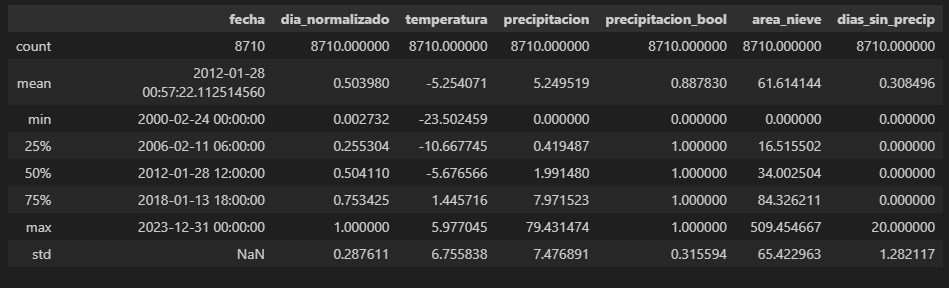
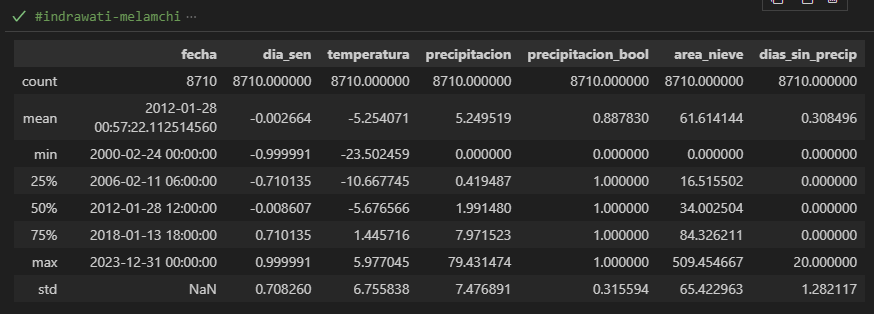
Actualizacion de los describe de cada cuenca en el readme.md

diff --git a/procesamiento_datos.py b/procesamiento_datos.py
@@ -2,20 +2,33 @@
 import pandas as pd
 
 #%%
-area_uc = pd.read_csv("E:/data/csv/areas/uncompahgre-ridgway.csv")
-variable_uc = pd.read_csv("E:/data/csv/series_agregadas/uncompahgre-ridgway.csv")
-
-area_ab = pd.read_csv("E:/data/csv/areas/adda-bornio.csv")
-variable_ab = pd.read_csv("E:/data/csv/series_agregadas/adda-bornio.csv")
-
+csv_path = "E:/data/csv/"
 cuencas = ['adda-bornio','genil-dilar','indrawati-melamchi','machopo-almendros','nenskra-Enguri','uncompahgre-ridgway']
-paths = {}
+
+area_ab = pd.read_csv(csv_path + "areas/" + cuencas[0] + ".csv")
+variable_ab = pd.read_csv(csv_path + "series_agregadas/" + cuencas[0] + ".csv")
+
+area_gd = pd.read_csv(csv_path + "areas/" + cuencas[1] + ".csv")
+variable_gd = pd.read_csv(csv_path + "series_agregadas/" + cuencas[1] + ".csv")
+
+area_im = pd.read_csv(csv_path + "areas/" + cuencas[2] + ".csv")
+variable_im = pd.read_csv(csv_path + "series_agregadas/" + cuencas[2] + ".csv")
+
+area_ma = pd.read_csv(csv_path + "areas/" + cuencas[3] + ".csv")
+variable_ma = pd.read_csv(csv_path + "series_agregadas/" + cuencas[3] + ".csv")
+
+area_ne = pd.read_csv(csv_path + "areas/" + cuencas[4] + ".csv")
+variable_ne = pd.read_csv(csv_path + "series_agregadas/" + cuencas[4] + ".csv")
+
+area_ur = pd.read_csv(csv_path + "areas/" + cuencas[5] + ".csv")
+variable_ur = pd.read_csv(csv_path + "series_agregadas/" + cuencas[5] + ".csv")
+
 
 #%%
 def procesar_cuenca(areas, series):
     df = pd.merge(series, areas, how='inner', left_on='fecha', right_on='fecha')
-    # columns = ['fecha','dia_sen','temperatura','precipitacion','precipitacion_bool','area_nieve']
-    # df.columns = columns
+    columns = ['fecha','dia_sen','temperatura','precipitacion','precipitacion_bool','area_nieve']
+    df.columns = columns
     df['fecha'] = pd.to_datetime(df["fecha"])
     # Calculo de dias transcurridos desde la última precipitacion
     df['dias_sin_precip'] = 0
@@ -31,7 +44,34 @@ def procesar_cuenca(areas, series):
 
     return df
 #%%
+#adda-bornio
 adda = procesar_cuenca(area_ab, variable_ab)
+adda.describe()
+
+#%%
+#genil-dilar
+genil = procesar_cuenca(area_gd, variable_gd)
+genil.describe()
+
+#%%
+#indrawati-melamchi
+indrawati = procesar_cuenca(area_im, variable_im)
+indrawati.describe()
+
+#%%
+# machopo-almendros
+machopo = procesar_cuenca(area_ma, variable_ma)
+machopo.describe()
+
+#%%
+#nenskra-enguri
+nenskra = procesar_cuenca(area_ne, variable_ne)
+nenskra.describe()
+
+#%%
+#uncompahgre-ridgway
+uncompahgre = procesar_cuenca(area_ur, variable_ur)
+uncompahgre.describe()
 
 #%%
 corr = adda.corr(numeric_only=True)

diff --git a/README.md b/README.md
@@ -88,27 +88,100 @@ Este es el resultado de juntar los dos dataframes creados anteriormente, sin emb
 Ahora exploraremos cada variable para ver como se comporta:
 # adda-bornio
 ![Estadisticas sobre Adda Bornio](img/addabornio-describe.png)
-* **dia_normalizado:** Esta columna, ya normalizada entre 0 y 1, tiene una media cercana a 0.5, lo que sugiere una distribución uniforme de los días a lo largo del periodo analizado para el modelo autoregresivo.
-* **temperatura:** La temperatura media diaria en la cuenca se sitúa en torno a los 12.34 grados Celsius, con un rango que va desde valores bajo cero (-6.33 °C) hasta máximos de casi 30 °C. La desviación estándar de 7.49 °C indica una variabilidad considerable en la temperatura diaria.
-* **precipitacion:** La precipitación media diaria es de aproximadamente 1.60 litros por metro cuadrado, con días sin lluvia (mínimo de 0) y días de lluvia intensa (máximo de 54.79 l/m²). La desviación estándar de 3.99 l/m² señala una alta variabilidad en la cantidad de precipitación.
-* **precipitacion_bool:** Esta variable binaria indica que llovió en aproximadamente el 44.13% de los días (media de 0.4413).
-* **area_nieve:** La superficie media cubierta por nieve es de unos 262.36 km², con una gran variabilidad (desviación estándar de 173.30 km²). Hay días sin nieve (mínimo de 0) y días con una extensa cobertura (máximo de 477.57 km²). El percentil 25% muestra una cobertura relativamente baja, mientras que el 75% indica una cobertura más significativa.
-* **dias_sin_precip:** De media, han transcurrido alrededor de 2.37 días desde la última precipitación. El valor máximo de 33 días sugiere periodos secos prolongados, mientras que el percentil 25% indica que en muchos casos no ha pasado ningún día desde la última lluvia.
+Este DataFrame contiene datos diarios para la cuenca "adda-bornio" a lo largo de varios años.
+
+- **dia_sen:** Variable temporal normalizada utilizando la función seno. El valor medio es cercano a cero (-0.0026), con un rango que abarca desde -0.9999 hasta 0.9999, indicando la representación cíclica del año. La desviación estándar (0.7082) sugiere una dispersión considerable a lo largo del ciclo anual.
+
+- **temperatura:** La temperatura media diaria presenta una media de 12.34 °C, con valores que oscilan entre un mínimo de -6.33 °C y un máximo de 29.82 °C. La desviación estándar de 7.49 °C indica una variabilidad significativa en la temperatura diaria.
+
+- **precipitacion:** La precipitación diaria tiene una media de 1.60 litros/m², con un valor mínimo de 0 y un máximo de 54.79 litros/m². La desviación estándar de 3.99 litros/m² muestra una alta variabilidad en la cantidad de precipitación.
+
+- **precipitacion_bool:** Variable binaria que indica la presencia (1) o ausencia (0) de precipitación. De media, llueve aproximadamente el 44% de los días.
+
+- **area_nieve:** El área cubierta por nieve tiene una media de 262.36 km², con un rango que va desde 0 km² hasta un máximo de 477.57 km². La desviación estándar de 173.30 km² revela una gran variabilidad en la extensión de la capa de nieve.
+
+- **dias_sin_precip:** El número de días transcurridos desde la última precipitación tiene una media de 2.37 días, con un máximo de 33 días sin lluvia registrada. La desviación estándar de 3.67 días indica una variabilidad en la frecuencia de las precipitaciones.
 
 # genil-dilar
 ![Estadisticas sobre Genil Dilar](img/genildilar-describe.png)
+Este DataFrame contiene datos diarios para la cuenca "genil-dilar" a lo largo de varios años.
+
+- **dia_sen:** Similar a otras cuencas, esta variable temporal normalizada con la función seno tiene una media cercana a cero (-0.0088) y un rango completo de -0.9999 a 0.9999. La desviación estándar es de 0.7076.
+
+- **temperatura:** La temperatura media diaria es de -0.79 °C, notablemente más baja que en la cuenca anterior. Los valores varían desde un mínimo extremo de -28.79 °C hasta un máximo de 16.91 °C. La desviación estándar de 8.48 °C indica una considerable variabilidad térmica.
+
+- **precipitacion:** La precipitación diaria tiene una media de 2.93 litros/m², con un máximo registrado de 77.47 litros/m². La desviación estándar es de 5.59 litros/m².
+
+- **precipitacion_bool:** La probabilidad de precipitación diaria es mayor en esta cuenca, con una media de 0.72, lo que indica que llueve aproximadamente el 72% de los días.
+
+- **area_nieve:** El área de nieve presenta una media de 50.80 km², significativamente menor que en la cuenca "adda-bornio". El área varía desde 0 km² hasta un máximo de 583.21 km². La desviación estándar es de 67.23 km².
+
+- **dias_sin_precip:** El promedio de días sin precipitación es bajo, de 0.81 días, con un máximo de 20 días consecutivos sin lluvia. La desviación estándar es de 1.98 días, lo que sugiere precipitaciones más frecuentes en comparación con la cuenca anterior.
+
 
 # indrawati-melamchi
 ![Estadisticas sobre Indrawati Melamchi](img/indrawatimelamchi-describe.png)
+Este DataFrame contiene datos diarios para la cuenca "indrawati-melamchi" a lo largo de varios años.
+
+- **dia_sen:** La variable temporal normalizada con la función seno tiene una media cercana a cero (-0.0027) y un rango completo de -0.9999 a 0.9999. La desviación estándar es de 0.7083.
+
+- **temperatura:** La temperatura media diaria es de -5.25 °C, similar a la cuenca "genil-dilar" y también más baja que la "adda-bornio". Los valores oscilan entre un mínimo de -23.50 °C y un máximo de 5.98 °C. La desviación estándar de 6.76 °C indica una variabilidad considerable.
+
+- **precipitacion:** La precipitación diaria presenta una media de 5.25 litros/m², con un máximo registrado de 79.43 litros/m². La desviación estándar es de 7.48 litros/m², mostrando una alta variabilidad.
+
+- **precipitacion_bool:** La presencia de precipitación es muy frecuente en esta cuenca, con una media de 0.89, lo que sugiere que llueve aproximadamente el 89% de los días.
+
+- **area_nieve:** El área cubierta por nieve tiene una media de 61.61 km², con un rango de 0 km² hasta un máximo de 509.45 km². La desviación estándar de 65.42 km² indica una variabilidad notable en la extensión de la nieve.
+
+- **dias_sin_precip:** El número de días sin precipitación es muy bajo, con una media de 0.31 días y un máximo de 20 días consecutivos sin lluvia. La desviación estándar de 1.28 días sugiere precipitaciones muy frecuentes.
 
 # machopo-almendros
 ![Estadisticas sobre Machopo Almendros](img/machopoalmendros-describe.png)
+Este DataFrame contiene datos diarios para la cuenca "machopo-almendros" a lo largo de varios años.
+
+- **dia_sen:** La variable temporal normalizada con la función seno presenta una media cercana a cero (-0.0027) y un rango completo de -0.9999 a 0.9999. La desviación estándar es de 0.7084.
+
+- **temperatura:** La temperatura media diaria es de 4.00 °C, ubicándose entre las temperaturas medias de las cuencas anteriores. Los valores varían desde un mínimo de -16.60 °C hasta un máximo de 17.78 °C. La desviación estándar de 6.28 °C indica una variabilidad térmica considerable.
+
+- **precipitacion:** La precipitación diaria tiene una media de 2.45 litros/m², con un máximo registrado de 94.46 litros/m². La desviación estándar es de 6.53 litros/m², mostrando una alta variabilidad.
+
+- **precipitacion_bool:** La probabilidad de precipitación diaria es de aproximadamente el 59%, con una media de 0.59.
+
+- **area_nieve:** El área cubierta por nieve tiene una media de 167.51 km², con un rango que va desde 0 km² hasta un máximo de 635.69 km². La desviación estándar de 179.31 km² revela una gran variabilidad en la extensión de la capa de nieve.
+
+- **dias_sin_precip:** El promedio de días sin precipitación es de 1.40 días, con un máximo de 24 días consecutivos sin lluvia. La desviación estándar es de 2.61 días.
 
 # nenskra-enguri
 ![Estadisticas sobre Nenskra Enguri](img/nenskraenguri-describe.png)
+Este DataFrame contiene datos diarios para la cuenca "nenskra-enguri" a lo largo de varios años.
+
+- **dia_sen:** La variable temporal normalizada con la función seno tiene una media cercana a cero (-0.0030) y un rango completo de -0.9999 a 0.9999. La desviación estándar es de 0.7082.
+
+- **temperatura:** La temperatura media diaria es de 2.45 °C, similar a la cuenca "machopo-almendros". Los valores oscilan entre un mínimo de -21.34 °C y un máximo de 22.05 °C. La desviación estándar de 8.90 °C indica una variabilidad térmica considerable.
+
+- **precipitacion:** La precipitación diaria presenta una media de 4.45 litros/m², con un máximo registrado de 63.71 litros/m². La desviación estándar es de 6.91 litros/m², mostrando una alta variabilidad.
+
+- **precipitacion_bool:** La presencia de precipitación es frecuente en esta cuenca, con una media de 0.76, lo que sugiere que llueve aproximadamente el 76% de los días.
+
+- **area_nieve:** El área cubierta por nieve tiene una media de 320.70 km², con un rango de 0 km² hasta un máximo de 628.06 km². La desviación estándar de 224.81 km² revela una gran variabilidad en la extensión de la capa de nieve.
+
+- **dias_sin_precip:** El número de días sin precipitación es bajo, con una media de 0.63 días y un máximo de 20 días consecutivos sin lluvia. La desviación estándar de 1.66 días sugiere precipitaciones frecuentes.
 
 # uncompahgre-ridgway
 ![Estadisticas sobre Uncompahgre Ridgway](img/uncompahgreridgway-describe.png)
+Este DataFrame contiene datos diarios para la cuenca "uncompahgre-ridgway" a lo largo de varios años.
+
+- **dia_sen:** La variable temporal normalizada con la función seno tiene una media cercana a cero (-0.0027) y un rango completo de -0.9999 a 0.9999. La desviación estándar es de 0.7083.
+
+- **temperatura:** La temperatura media diaria es de 1.64 °C. Los valores varían desde un mínimo de -23.79 °C hasta un máximo de 19.43 °C. La desviación estándar de 9.24 °C indica una variabilidad térmica considerable.
+
+- **precipitacion:** La precipitación diaria presenta una media de 1.86 litros/m², con un máximo registrado de 35.79 litros/m². La desviación estándar es de 3.38 litros/m², mostrando una variabilidad moderada.
+
+- **precipitacion_bool:** La probabilidad de precipitación diaria es de aproximadamente el 59%, con una media de 0.59.
+
+- **area_nieve:** El área cubierta por nieve tiene una media de 243.62 km², con un rango que va desde 0 km² hasta un máximo de 639.85 km². La desviación estándar de 234.05 km² revela una gran variabilidad en la extensión de la capa de nieve.
+
+- **dias_sin_precip:** El promedio de días sin precipitación es de 1.26 días, con un máximo de 20 días consecutivos sin lluvia. La desviación estándar es de 2.27 días.
 
 
 
